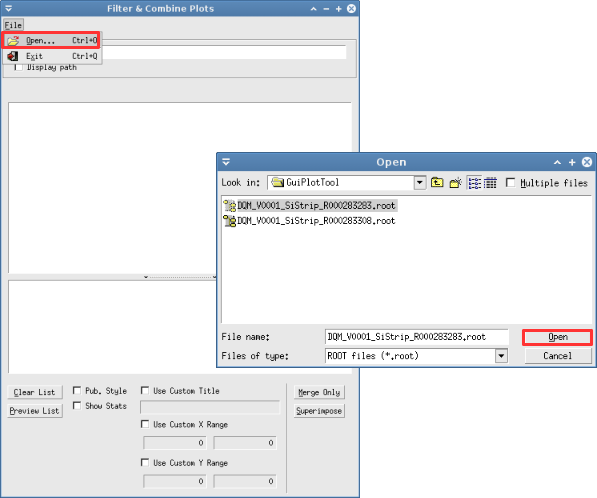
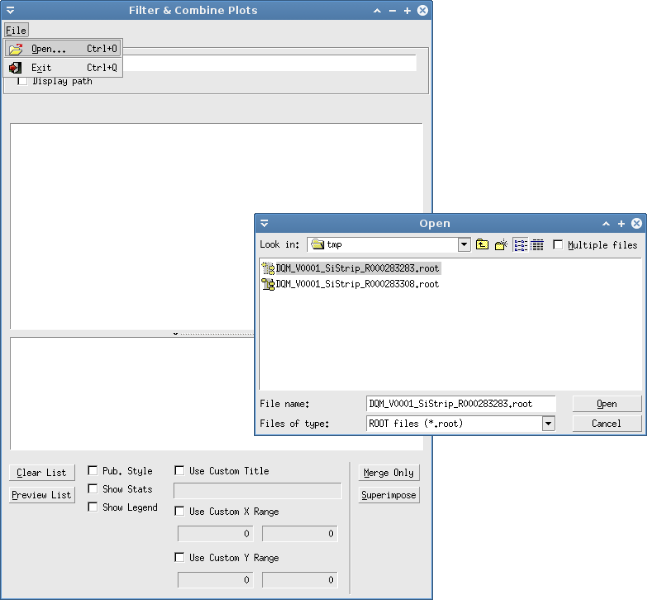
update readme + images

diff --git a/README.md b/README.md
@@ -1,5 +1,5 @@
 # Goal
-This tool is ment to Merge and Superimpose plots from DQMData.
+This tool is meant to Merge and Superimpose plots from DQMData.
 
 ![goal](https://raw.githubusercontent.com/imKuehlschrank/GuiPlotTool/master/doc/img/goal.png)
 
@@ -27,8 +27,8 @@ Now we will make use of the quicksearch box at the top. Type "OnTrack__TID__PLUS
 Selecting the "Display Path" checkbox enables us to see the complete file names of the plots. We see that it is not actually duplicates but files that are in the 'Reference' folder and the 'Current Run' folder.
 Select all the plots.
 
-Check 'Pub. Style', 'Show stats, and 'Use Custom Title', and enter the string 'My Cool Plots' in the text field.
-Click on 'Superimpose'.
+Check 'Pub. Style', 'Show stats', 'Show legend', and 'Use Custom Title', and enter the string 'My Cool Plots' in the text field.
+Click on 'Superimpose'. To change the legend text right click on the legend's text you want to change and select 'Set Entry Label' and enter it there.
 
 ![Superimpose](https://raw.githubusercontent.com/imKuehlschrank/GuiPlotTool/master/doc/img/superimpose.png)
 
